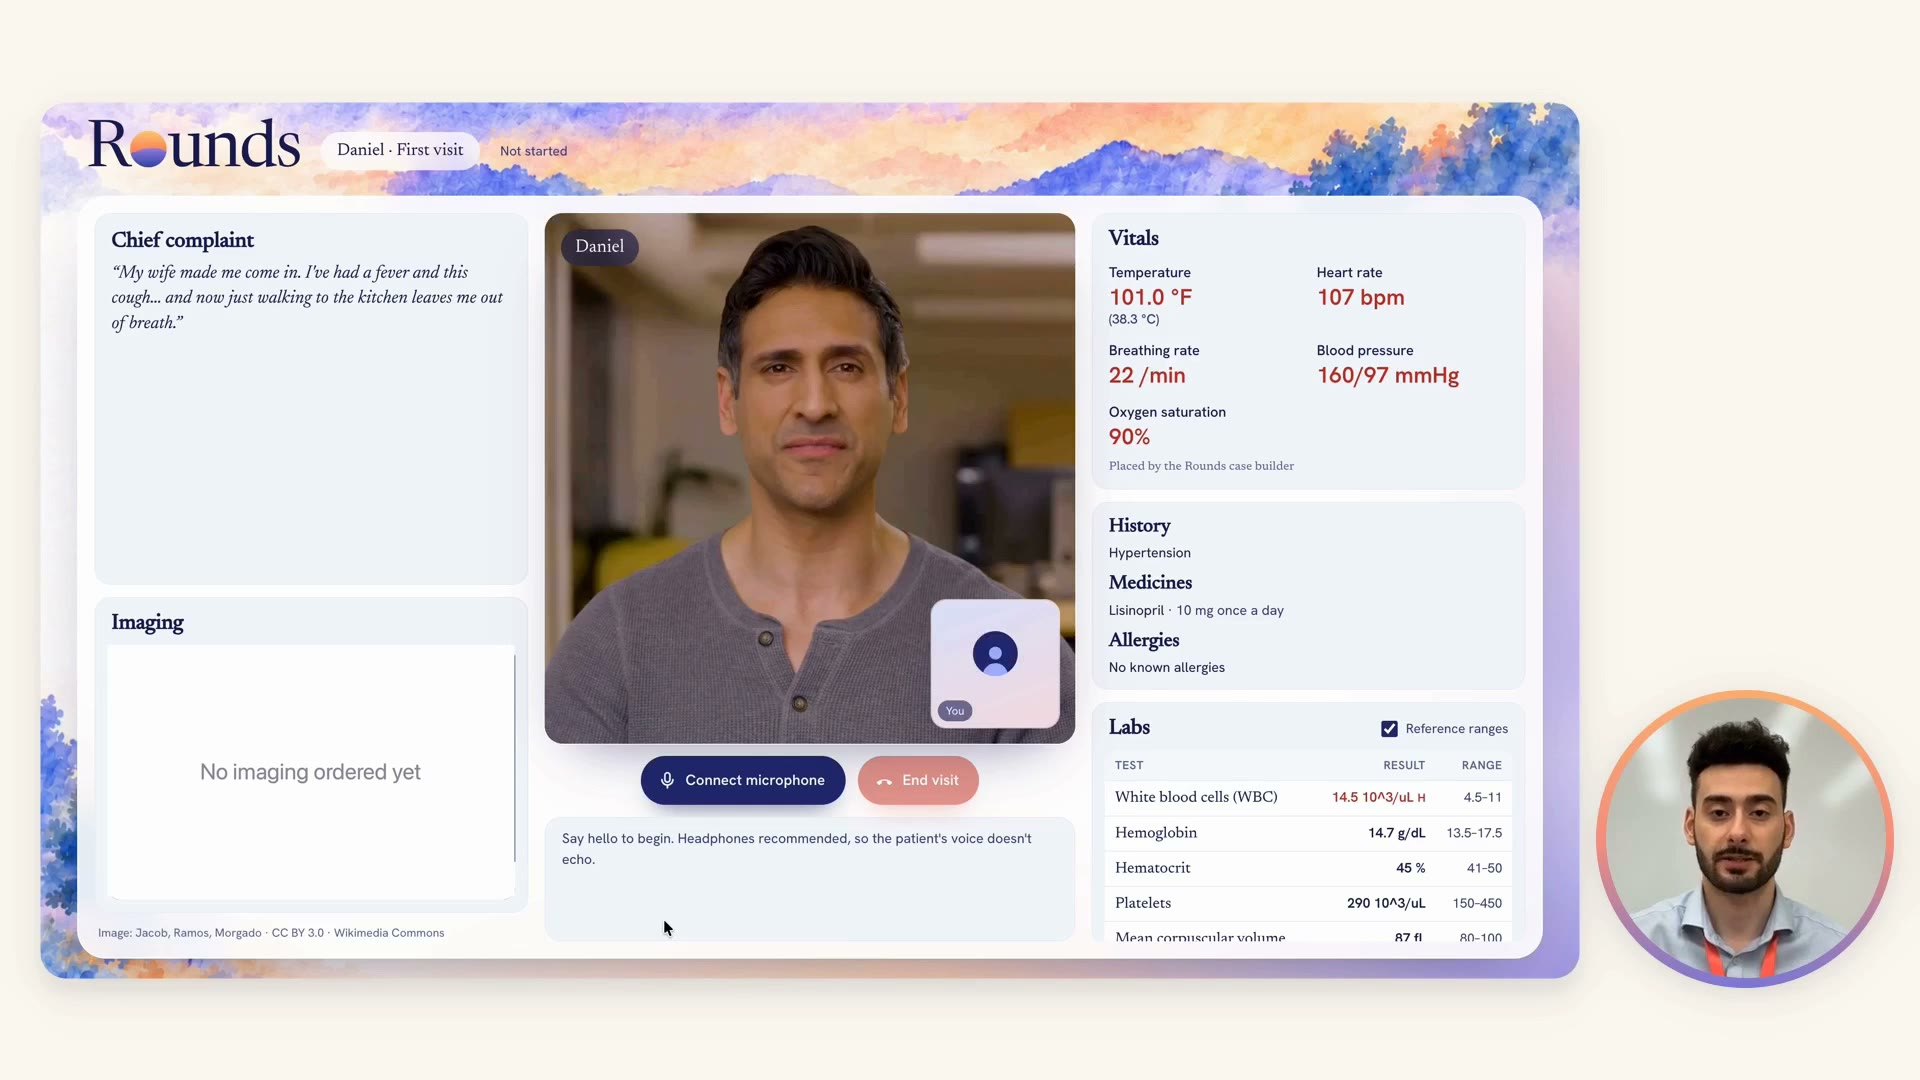
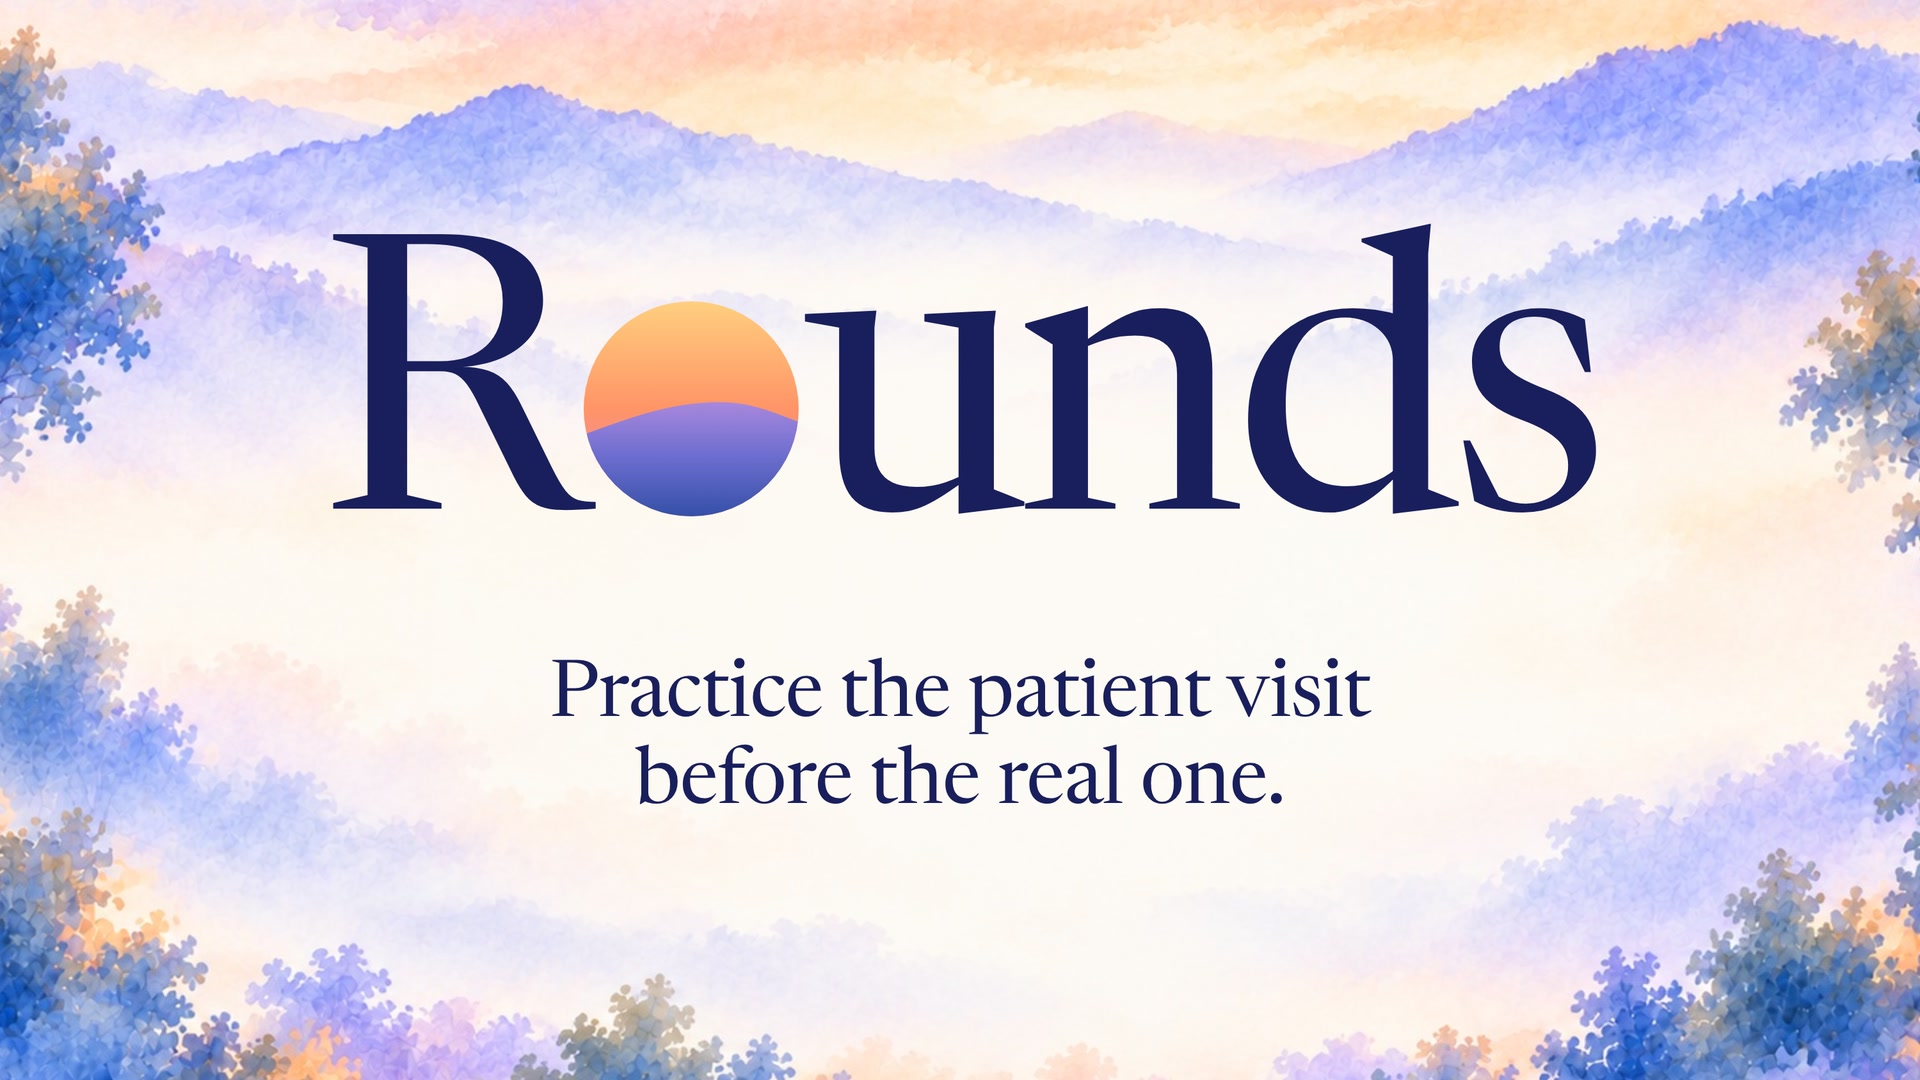
Use the app's watercolor background and the video thumbnail

diff --git a/styles.css b/styles.css
@@ -1,40 +1,18 @@
-/* Tokens match the Rounds app (frontend/src/index.css). */
+/* Tokens and art match the Rounds app (frontend/src/index.css). Light only, as in the app. */
 :root {
   --font-sans: "Hanken Grotesk", system-ui, sans-serif;
   --font-serif: "Newsreader", Georgia, serif;
   --ink: #191f5c;
   --ink-soft: #3a4282;
   --muted: #646b9e;
-  --indigo: #4a5fd9;
-  --indigo-soft: #ebeefd;
   --indigo-line: #7d8fe6;
   --line: #e2e5f3;
   --paper: #fdfbf8;
   --card: #ffffff;
+  --sheet: rgb(255 255 255 / 0.9);
   --select: #d9defa;
-  --wash-a: rgba(255, 184, 130, 0.28);
-  --wash-b: rgba(140, 132, 226, 0.22);
   --shadow-lift: 0 1px 2px rgb(25 31 92 / 0.06), 0 16px 36px -20px rgb(25 31 92 / 0.42);
   color-scheme: light;
-}
-
-@media (prefers-color-scheme: dark) {
-  :root {
-    --ink: #eeeff4;
-    --ink-soft: #b9bacb;
-    --muted: #9a9baf;
-    --indigo: #93a0ff;
-    --indigo-soft: #262a4a;
-    --indigo-line: #5a66b0;
-    --line: #2c2c3a;
-    --paper: #16161c;
-    --card: #1f1f29;
-    --select: #2b3162;
-    --wash-a: rgba(217, 138, 58, 0.12);
-    --wash-b: rgba(109, 131, 240, 0.14);
-    --shadow-lift: 0 1px 2px rgb(0 0 0 / 0.3), 0 16px 36px -20px rgb(0 0 0 / 0.7);
-    color-scheme: dark;
-  }
 }
 
 *,
@@ -47,9 +25,15 @@ html {
   -webkit-text-size-adjust: 100%;
 }
 
+/* The page stands on the app's watercolor world: mountains behind the hero, trees along the bottom. */
 body {
   margin: 0;
-  background: var(--paper);
+  --art-w: max(100vw, 1100px);
+  background:
+    linear-gradient(to bottom, var(--paper), transparent 45%) center bottom / var(--art-w) calc(var(--art-w) * 0.5628) no-repeat,
+    url("assets/world.jpg") center bottom / var(--art-w) calc(var(--art-w) * 0.5628) no-repeat,
+    var(--paper);
+  background-attachment: scroll;
   color: var(--ink);
   font-family: var(--font-serif);
   font-size: 19px;
@@ -69,24 +53,38 @@ ol {
   margin: 0;
 }
 
-/* Hero: the dawn wash from the app's backdrop, kept faint. */
+/* Hero on the painting, with the Welcome screen's soft paper glow behind the words. */
 .hero {
+  position: relative;
   display: flex;
   flex-direction: column;
   align-items: center;
-  gap: 16px;
-  padding: clamp(56px, 10vw, 112px) 16px clamp(36px, 6vw, 56px);
+  justify-content: center;
+  gap: 14px;
+  min-height: min(78vh, 760px);
+  padding: 72px 16px 160px;
   text-align: center;
   background:
-    radial-gradient(60% 260px at 30% 0%, var(--wash-a), transparent),
-    radial-gradient(50% 240px at 80% 0%, var(--wash-b), transparent);
+    linear-gradient(to bottom, transparent 70%, var(--paper)),
+    url("assets/world.jpg") center / cover no-repeat;
+}
+
+.hero::before {
+  content: "";
+  position: absolute;
+  inset: 0;
+  background: radial-gradient(ellipse 60% 55% at 50% 50%, rgba(255, 253, 250, 0.9), rgba(255, 253, 250, 0.5) 60%, transparent 85%);
+}
+
+.hero > * {
+  position: relative;
 }
 
 /* "Rounds" with the dawn disc standing in for the o, as in the app. */
 .wordmark {
   display: inline-flex;
   align-items: baseline;
-  font-size: clamp(72px, 12vw, 128px);
+  font-size: clamp(76px, 13vw, 156px);
   font-weight: 400;
   line-height: 1;
   letter-spacing: -0.03em;
@@ -102,14 +100,23 @@ ol {
 }
 
 .tagline {
-  max-width: 22ch;
+  max-width: 20ch;
+  margin-top: 8px;
+  font-size: clamp(28px, 3.4vw, 46px);
+  line-height: 1.15;
+  letter-spacing: -0.6px;
   text-wrap: balance;
-  font-size: clamp(26px, 3.2vw, 40px);
-  line-height: 1.2;
-  letter-spacing: -0.02em;
+}
+
+.subline {
+  max-width: 32ch;
+  font-size: clamp(19px, 1.6vw, 23px);
+  color: var(--ink-soft);
+  text-wrap: balance;
 }
 
 .award {
+  margin-top: 6px;
   font-family: var(--font-sans);
   font-size: 15px;
   font-weight: 500;
@@ -117,11 +124,19 @@ ol {
   text-wrap: balance;
 }
 
-main {
-  width: 100%;
-  max-width: 1040px;
-  margin: 0 auto;
-  padding: 0 16px;
+/* The large translucent sheet the app's screens sit on. It rises over the bottom of the hero. */
+.sheet {
+  position: relative;
+  width: calc(100% - 32px);
+  max-width: 1120px;
+  margin: -120px auto 96px;
+  padding: clamp(16px, 4vw, 48px);
+  border: 1px solid rgb(255 255 255 / 0.7);
+  border-radius: 28px;
+  background: var(--sheet);
+  box-shadow: var(--shadow-lift);
+  -webkit-backdrop-filter: blur(8px);
+  backdrop-filter: blur(8px);
 }
 
 .demo video {
@@ -136,7 +151,7 @@ main {
 }
 
 section + section {
-  margin-top: clamp(56px, 8vw, 96px);
+  margin-top: clamp(56px, 8vw, 88px);
 }
 
 h2 {
@@ -148,36 +163,39 @@ h2 {
 
 .steps {
   display: grid;
-  grid-template-columns: repeat(auto-fit, minmax(260px, 1fr));
+  grid-template-columns: repeat(auto-fit, minmax(250px, 1fr));
   gap: 20px;
   margin-top: 28px;
   padding: 0;
   list-style: none;
 }
 
+/* Same card as the Welcome screen's role cards. */
 .card {
   display: flex;
   flex-direction: column;
   gap: 10px;
   padding: 28px;
-  border: 1px solid color-mix(in srgb, var(--indigo-line) 40%, transparent);
+  border: 1px solid rgb(125 143 230 / 0.4);
   border-radius: 18px;
-  background: var(--card);
-  box-shadow: var(--shadow-lift);
+  background: rgb(255 255 255 / 0.85);
+  box-shadow: 0 24px 60px -34px rgba(25, 31, 92, 0.45);
+  -webkit-backdrop-filter: blur(4px);
+  backdrop-filter: blur(4px);
 }
 
+/* Step number on a disc of the sky painting, like the role card icons. */
 .num {
   display: flex;
   align-items: center;
   justify-content: center;
-  width: 36px;
-  height: 36px;
+  width: 48px;
+  height: 48px;
   border-radius: 50%;
-  background: var(--indigo-soft);
-  color: var(--indigo);
-  font-family: var(--font-sans);
-  font-size: 16px;
-  font-weight: 600;
+  background: radial-gradient(circle at 50% 45%, rgba(255, 255, 255, 0.7), transparent 60%), url("assets/bloom.jpg") 30% 20% / 500% auto;
+  color: #1f2a9c;
+  font-size: 24px;
+  line-height: 1;
 }
 
 h3 {
@@ -192,7 +210,7 @@ h3 {
 }
 
 .grounding {
-  max-width: 680px;
+  max-width: 700px;
 }
 
 .grounding p {
@@ -206,9 +224,8 @@ footer {
   flex-wrap: wrap;
   justify-content: space-between;
   gap: 8px 24px;
-  max-width: 1040px;
-  margin: clamp(64px, 10vw, 120px) auto 0;
-  padding: 24px 16px 40px;
+  margin-top: clamp(56px, 8vw, 88px);
+  padding-top: 24px;
   border-top: 1px solid var(--line);
   font-family: var(--font-sans);
   font-size: 14px;
@@ -216,5 +233,5 @@ footer {
 }
 
 a {
-  color: var(--indigo);
+  color: #4a5fd9;
 }

diff --git a/index.html b/index.html
@@ -3,12 +3,14 @@
   <head>
     <meta charset="UTF-8" />
     <meta name="viewport" content="width=device-width, initial-scale=1.0" />
+    <meta name="color-scheme" content="light" />
     <title>Rounds</title>
     <meta name="description" content="Voice-based virtual patients for clinical education. Faculty describe a patient out loud, students interview that patient by voice, and the feedback quotes the conversation." />
     <meta property="og:type" content="website" />
     <meta property="og:title" content="Rounds" />
     <meta property="og:description" content="Virtual patients that only say what faculty approved." />
-    <meta property="og:image" content="assets/rounds-demo-poster.jpg" />
+    <meta property="og:url" content="https://rounds-app.github.io/rounds-landing/" />
+    <meta property="og:image" content="https://rounds-app.github.io/rounds-landing/assets/rounds-demo-poster.jpg" />
     <link rel="icon" type="image/svg+xml" href="favicon.svg" />
     <link rel="preconnect" href="https://fonts.googleapis.com" />
     <link rel="preconnect" href="https://fonts.gstatic.com" crossorigin />
@@ -38,11 +40,12 @@
           </g>
         </svg><span aria-hidden="true">unds</span>
       </h1>
-      <p class="tagline">Virtual patients that only say what faculty approved.</p>
+      <p class="tagline">Practice the patient visit before the real one.</p>
+      <p class="subline">Virtual patients that only say what faculty approved.</p>
       <p class="award">2nd place, TwinVerse track, Rutgers Health Hack 2026</p>
     </header>
 
-    <main>
+    <main class="sheet">
       <section class="demo" aria-label="Demo video">
         <video controls preload="metadata" playsinline poster="assets/rounds-demo-poster.jpg">
           <source src="assets/rounds-demo.mp4" type="video/mp4" />
@@ -75,11 +78,11 @@
         <h2>Nothing is invented</h2>
         <p>Every line a patient says cites a fact faculty approved. Code decides which facts are true and when they can be shared; the language model only phrases them. A checker reviews each reply before it is spoken; a reply that fails is replaced with one built directly from the approved facts.</p>
       </section>
-    </main>
 
-    <footer>
-      <p>All patients are synthetic.</p>
-      <p>&copy; 2026 Rounds</p>
-    </footer>
+      <footer>
+        <p>All patients are synthetic.</p>
+        <p>&copy; 2026 Rounds</p>
+      </footer>
+    </main>
   </body>
 </html>
